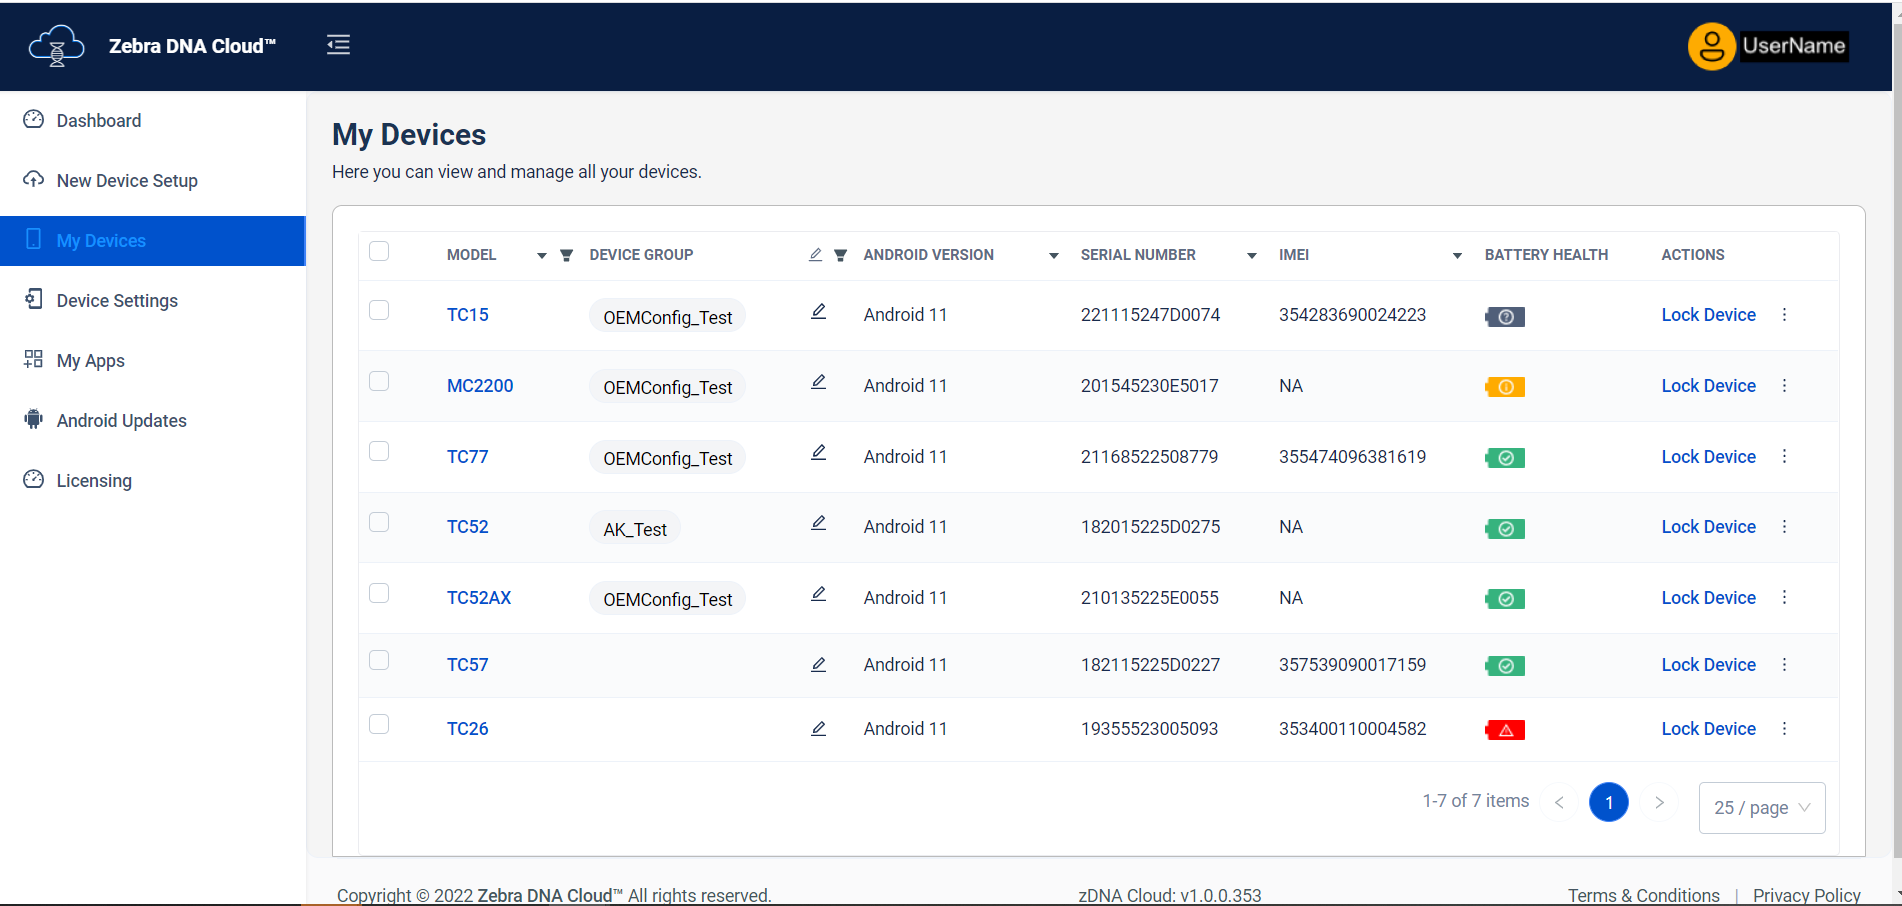
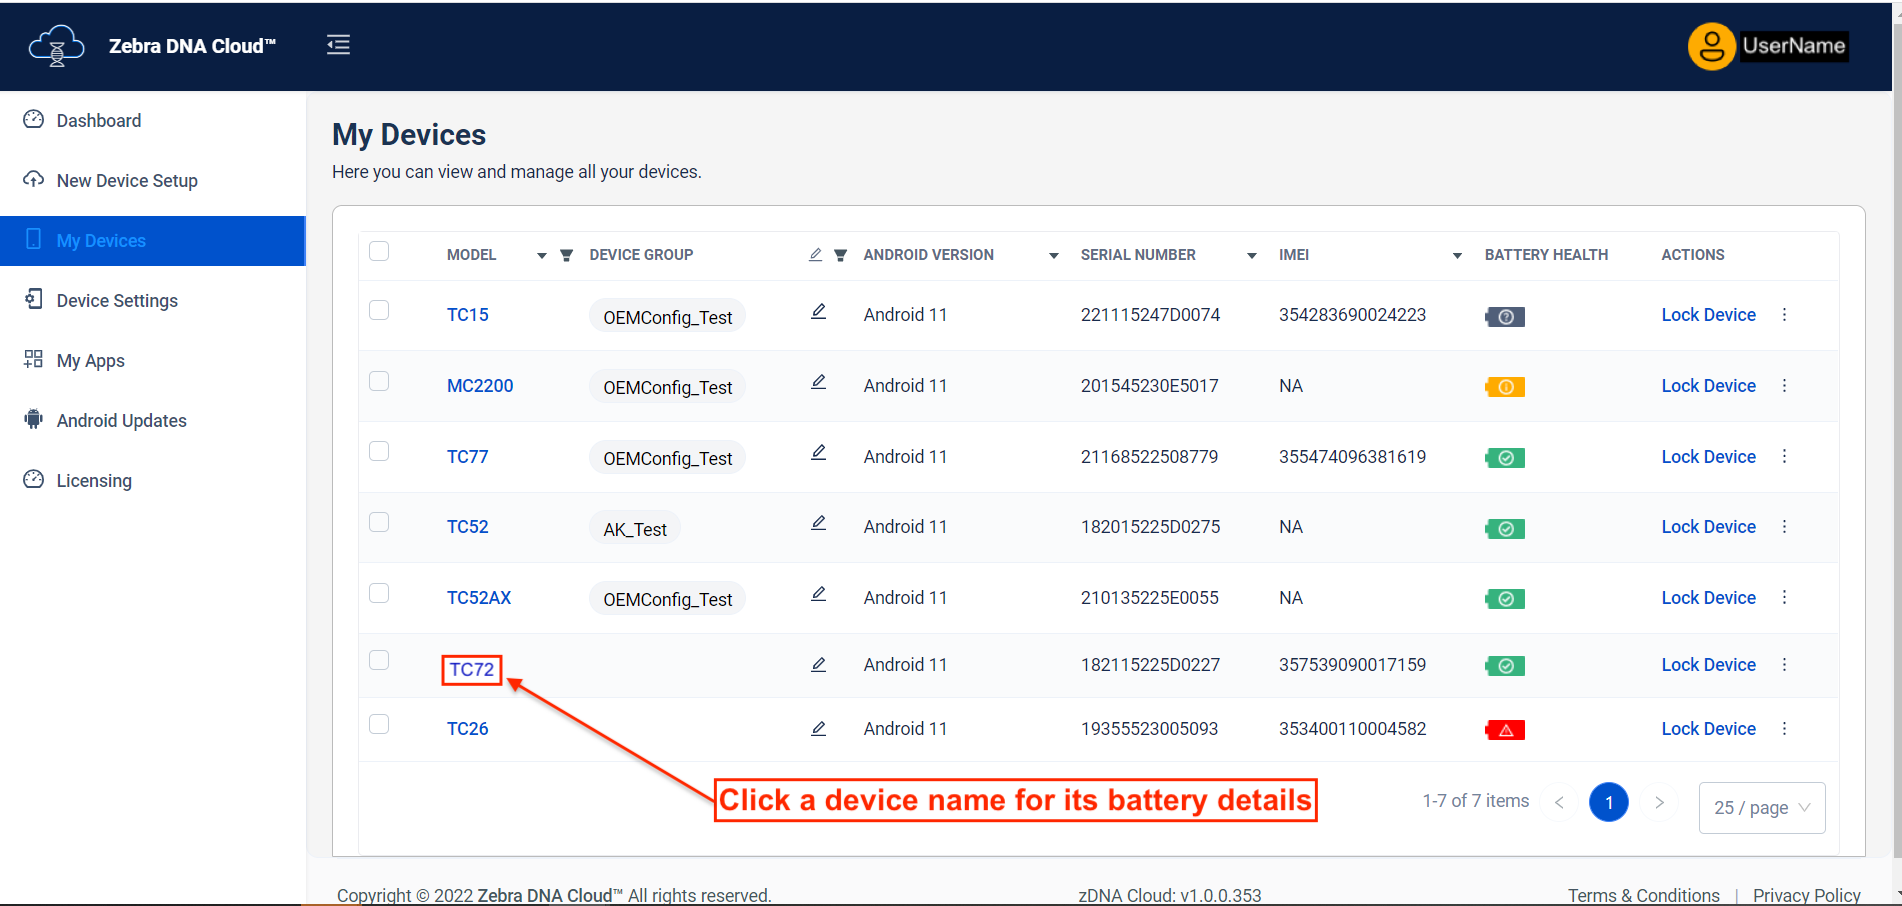
[TUT-70456] zDNA v1.1 updates, per eng; tweaks

diff --git a/zebradna/1-1/usage/index.html b/zebradna/1-1/usage/index.html
@@ -69,32 +69,32 @@
 
 
                         <li>
-                            <a href="/zebradna/1-0/about">
+                            <a href="/zebradna/1-1/about">
                                     About
                             </a>
                         </li>
                         <li>
-                            <a href="/zebradna/1-0/setup">
+                            <a href="/zebradna/1-1/setup">
                                     Setup
                             </a>
                         </li>
                         <li>
-                            <a href="/zebradna/1-0/usage">
+                            <a href="/zebradna/1-1/usage">
                                     Usage
                             </a>
                         </li>
                         <li>
-                            <a href="/zebradna/1-0/licensing">
+                            <a href="/zebradna/1-1/licensing">
                                     Licensing
                             </a>
                         </li>
                         <li>
-                            <a href="/zebradna/1-0/faq">
+                            <a href="/zebradna/1-1/faq">
                                     Known Issues
                             </a>
                         </li>
                         <li>
-                            <a href="/zebradna/1-0/search">
+                            <a href="/zebradna/1-1/search">
                                     <i class="fa fa-search"></i>
                             </a>
                         </li>
@@ -594,24 +594,26 @@
 <em>Click image to enlarge; ESC to exit.</em>
 <br></p>
 
-<ul>
-<li><strong>Battery health status indicators</strong>: 
-
+<h4 id="batteryhealthstatusindicators" class="anchor"><a class="heading-anchor" href="#batteryhealthstatusindicators"><span></span></a>Battery health status indicators</h4>
 
 <ul>
-<li><strong><b><font size="2" color="green">Green</font></b> -</strong> Good</li>
+<li><b><font size="3" color="green">Green</font></b> - <strong>Health is Good</strong></li>
 
-<li><strong><b><font size="2" color="orange">Yellow</font></b> -</strong> Fair</li>
+<li><b><font size="3" color="orange">Yellow</font></b> - <strong>Health is Fair</strong></li>
 
-<li><strong><b><font size="2" color="red">Red</font></b> -</strong> Replace</li>
+<li><b><font size="3" color="red">Red</font></b> - <strong>Replace Battery</strong></li>
 
-<li><strong><b><font size="2" color="black">Black</font></b> -</strong> Unknown</li></ul>
-</li>
+<li><b><font size="3" color="black">Black</font></b> - <strong>Unknown</strong></li>
 </ul>
 
+<p><strong>Click on a Device Name in the "Model" column to display its details</strong>, including battery health and additional battery information: 
+<img alt="image" style="height:350px" src="battery_details.png">
+<em>Click image to enlarge; ESC to exit.</em>
+<br></p>
+
 <blockquote>
-  <p><i class="fa fa-check-circle" style="color:#27AE60;"></i> Battery health reporting requires the latest zDNA client app on the device.<br>
-  For more information, see "Update zDNA Client" under <a href="#managedevices">Manage Devices</a>. </p>
+  <p><i class="fa fa-check-circle" style="color:#27AE60;"></i> <strong>NOTE</strong>: Battery information reporting requires the latest zDNA client app on the device.<br>
+  &nbsp;&nbsp;&nbsp;&nbsp;&nbsp;For more information, see "Update zDNA Client" under <a href="#managedevices">Manage Devices</a>. </p>
 </blockquote>
 
 <!-- 

diff --git a/zebradna/1-1/about/index.html b/zebradna/1-1/about/index.html
@@ -58,7 +58,7 @@
                     <ul class="nav navbar-nav">
                         <li class="navbar-text pull-left"><strong>TechDocs</strong></li>
                         <p class="navbar-text">
-                                            PRE-RELEASE DOCUMENTATION (v1.1) (v1.1)
+                                            PRE-RELEASE DOCUMENTATION (v1.1)
                         </p>
 
                     </ul>
@@ -69,32 +69,32 @@
 
 
                         <li>
-                            <a href="/zebradna/1-0/about">
+                            <a href="/zebradna/1-1/about">
                                     About
                             </a>
                         </li>
                         <li>
-                            <a href="/zebradna/1-0/setup">
+                            <a href="/zebradna/1-1/setup">
                                     Setup
                             </a>
                         </li>
                         <li>
-                            <a href="/zebradna/1-0/usage">
+                            <a href="/zebradna/1-1/usage">
                                     Usage
                             </a>
                         </li>
                         <li>
-                            <a href="/zebradna/1-0/licensing">
+                            <a href="/zebradna/1-1/licensing">
                                     Licensing
                             </a>
                         </li>
                         <li>
-                            <a href="/zebradna/1-0/faq">
+                            <a href="/zebradna/1-1/faq">
                                     Known Issues
                             </a>
                         </li>
                         <li>
-                            <a href="/zebradna/1-0/search">
+                            <a href="/zebradna/1-1/search">
                                     <i class="fa fa-search"></i>
                             </a>
                         </li>
@@ -209,7 +209,7 @@
                                 <div class="">
                                     <h1 id="about-zebra-dna-cloud" class="anchor"><a class="heading-anchor" href="#about-zebra-dna-cloud"><span></span></a>About Zebra DNA Cloud</h1>
                                     <p>
-                                            PRE-RELEASE DOCUMENTATION (v1.1) (v1.1)
+                                            PRE-RELEASE DOCUMENTATION (v1.1)
                                     </p>
                                 </div>
                             </section>                    

diff --git a/zebradna/1-1/search/index.html b/zebradna/1-1/search/index.html
@@ -69,32 +69,32 @@
 
 
                         <li>
-                            <a href="/zebradna/1-0/about">
+                            <a href="/zebradna/1-1/about">
                                     About
                             </a>
                         </li>
                         <li>
-                            <a href="/zebradna/1-0/setup">
+                            <a href="/zebradna/1-1/setup">
                                     Setup
                             </a>
                         </li>
                         <li>
-                            <a href="/zebradna/1-0/usage">
+                            <a href="/zebradna/1-1/usage">
                                     Usage
                             </a>
                         </li>
                         <li>
-                            <a href="/zebradna/1-0/licensing">
+                            <a href="/zebradna/1-1/licensing">
                                     Licensing
                             </a>
                         </li>
                         <li>
-                            <a href="/zebradna/1-0/faq">
+                            <a href="/zebradna/1-1/faq">
                                     Known Issues
                             </a>
                         </li>
                         <li>
-                            <a href="/zebradna/1-0/search">
+                            <a href="/zebradna/1-1/search">
                                     <i class="fa fa-search"></i>
                             </a>
                         </li>
@@ -172,7 +172,7 @@
             last: false
         }
         var results = [];
-        $.getJSON( "/zebradna/1-0/index.json", function( data ) {
+        $.getJSON( "/zebradna/1-1/index.json", function( data ) {
           json_data = data;
           console.log("got data");
           fuse = new Fuse(json_data, { keys: ["title", "keywords"] });
@@ -195,7 +195,7 @@
               $("#btn-loading").show()
               $("#btn-search").hide();
               
-              var product_version = "/zebradna/1-0/index.json".replace("/index.json","");
+              var product_version = "/zebradna/1-1/index.json".replace("/index.json","");
                 var q = $("#query").val();
                 var url="https://www.google.com/search?q=site:techdocs.zebra.com" + product_version + "+"+q;
                 window.open(url);

diff --git a/zebradna/1-1/faq/index.html b/zebradna/1-1/faq/index.html
@@ -69,32 +69,32 @@
 
 
                         <li>
-                            <a href="/zebradna/1-0/about">
+                            <a href="/zebradna/1-1/about">
                                     About
                             </a>
                         </li>
                         <li>
-                            <a href="/zebradna/1-0/setup">
+                            <a href="/zebradna/1-1/setup">
                                     Setup
                             </a>
                         </li>
                         <li>
-                            <a href="/zebradna/1-0/usage">
+                            <a href="/zebradna/1-1/usage">
                                     Usage
                             </a>
                         </li>
                         <li>
-                            <a href="/zebradna/1-0/licensing">
+                            <a href="/zebradna/1-1/licensing">
                                     Licensing
                             </a>
                         </li>
                         <li>
-                            <a href="/zebradna/1-0/faq">
+                            <a href="/zebradna/1-1/faq">
                                     Known Issues
                             </a>
                         </li>
                         <li>
-                            <a href="/zebradna/1-0/search">
+                            <a href="/zebradna/1-1/search">
                                     <i class="fa fa-search"></i>
                             </a>
                         </li>

diff --git a/zebradna/1-1/licensing/index.html b/zebradna/1-1/licensing/index.html
@@ -69,32 +69,32 @@
 
 
                         <li>
-                            <a href="/zebradna/1-0/about">
+                            <a href="/zebradna/1-1/about">
                                     About
                             </a>
                         </li>
                         <li>
-                            <a href="/zebradna/1-0/setup">
+                            <a href="/zebradna/1-1/setup">
                                     Setup
                             </a>
                         </li>
                         <li>
-                            <a href="/zebradna/1-0/usage">
+                            <a href="/zebradna/1-1/usage">
                                     Usage
                             </a>
                         </li>
                         <li>
-                            <a href="/zebradna/1-0/licensing">
+                            <a href="/zebradna/1-1/licensing">
                                     Licensing
                             </a>
                         </li>
                         <li>
-                            <a href="/zebradna/1-0/faq">
+                            <a href="/zebradna/1-1/faq">
                                     Known Issues
                             </a>
                         </li>
                         <li>
-                            <a href="/zebradna/1-0/search">
+                            <a href="/zebradna/1-1/search">
                                     <i class="fa fa-search"></i>
                             </a>
                         </li>

diff --git a/zebradna/1-1/setup/index.html b/zebradna/1-1/setup/index.html
@@ -69,32 +69,32 @@
 
 
                         <li>
-                            <a href="/zebradna/1-0/about">
+                            <a href="/zebradna/1-1/about">
                                     About
                             </a>
                         </li>
                         <li>
-                            <a href="/zebradna/1-0/setup">
+                            <a href="/zebradna/1-1/setup">
                                     Setup
                             </a>
                         </li>
                         <li>
-                            <a href="/zebradna/1-0/usage">
+                            <a href="/zebradna/1-1/usage">
                                     Usage
                             </a>
                         </li>
                         <li>
-                            <a href="/zebradna/1-0/licensing">
+                            <a href="/zebradna/1-1/licensing">
                                     Licensing
                             </a>
                         </li>
                         <li>
-                            <a href="/zebradna/1-0/faq">
+                            <a href="/zebradna/1-1/faq">
                                     Known Issues
                             </a>
                         </li>
                         <li>
-                            <a href="/zebradna/1-0/search">
+                            <a href="/zebradna/1-1/search">
                                     <i class="fa fa-search"></i>
                             </a>
                         </li>
